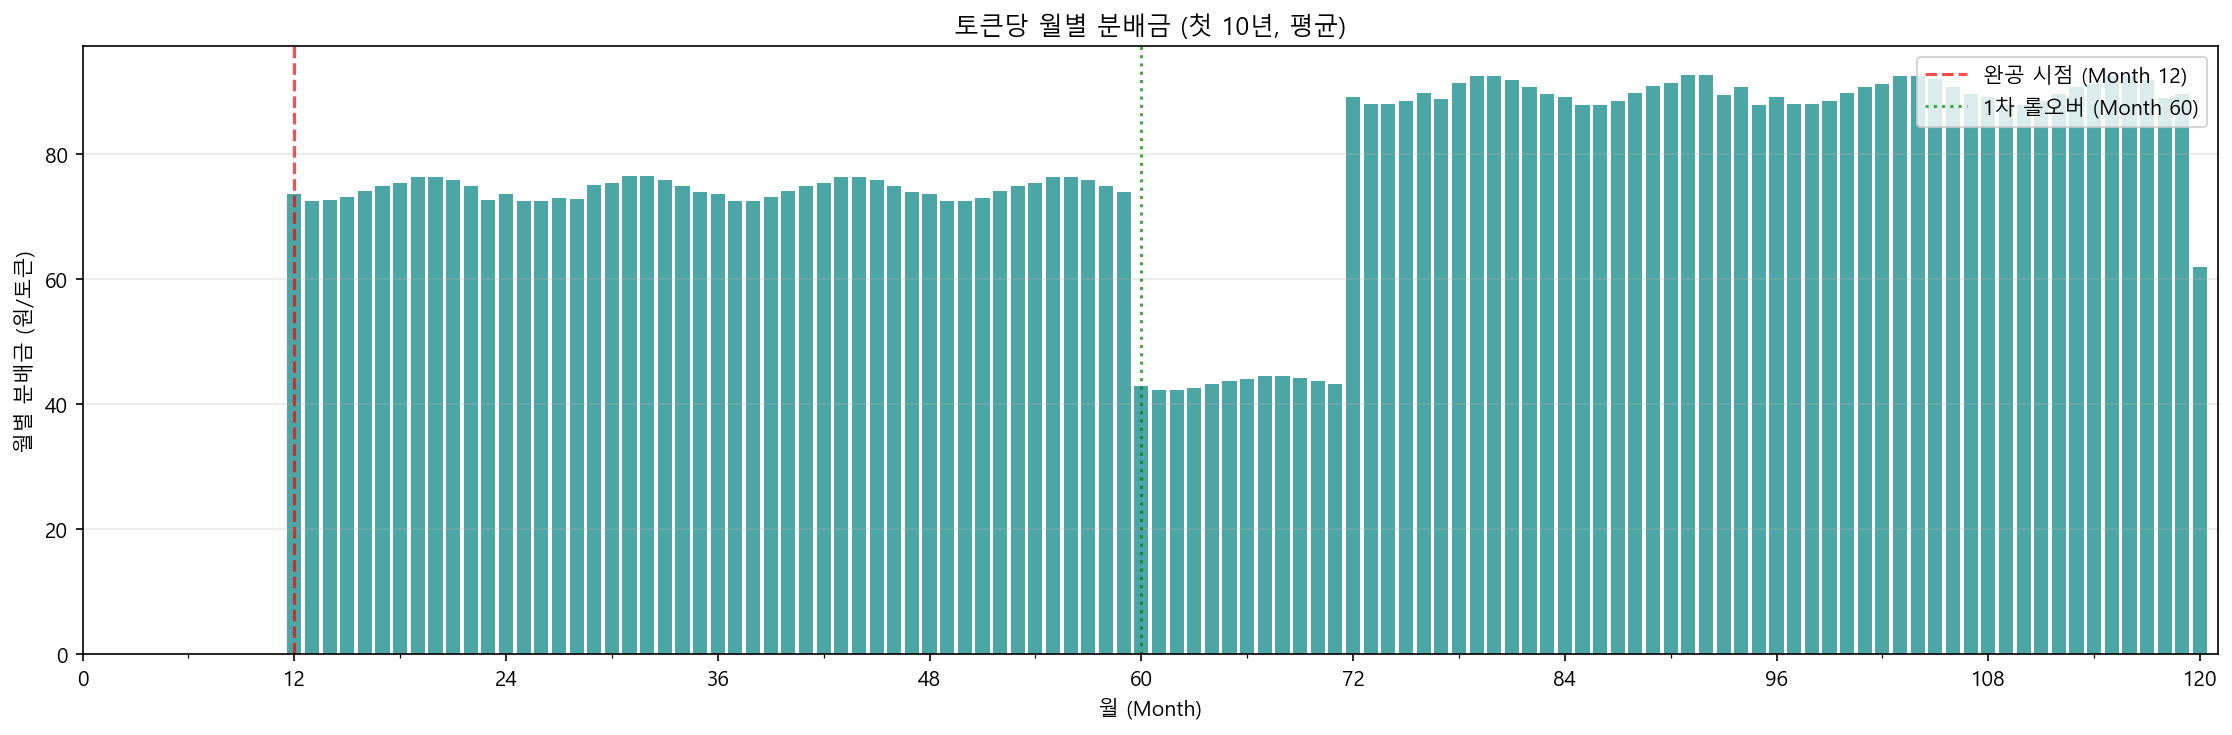
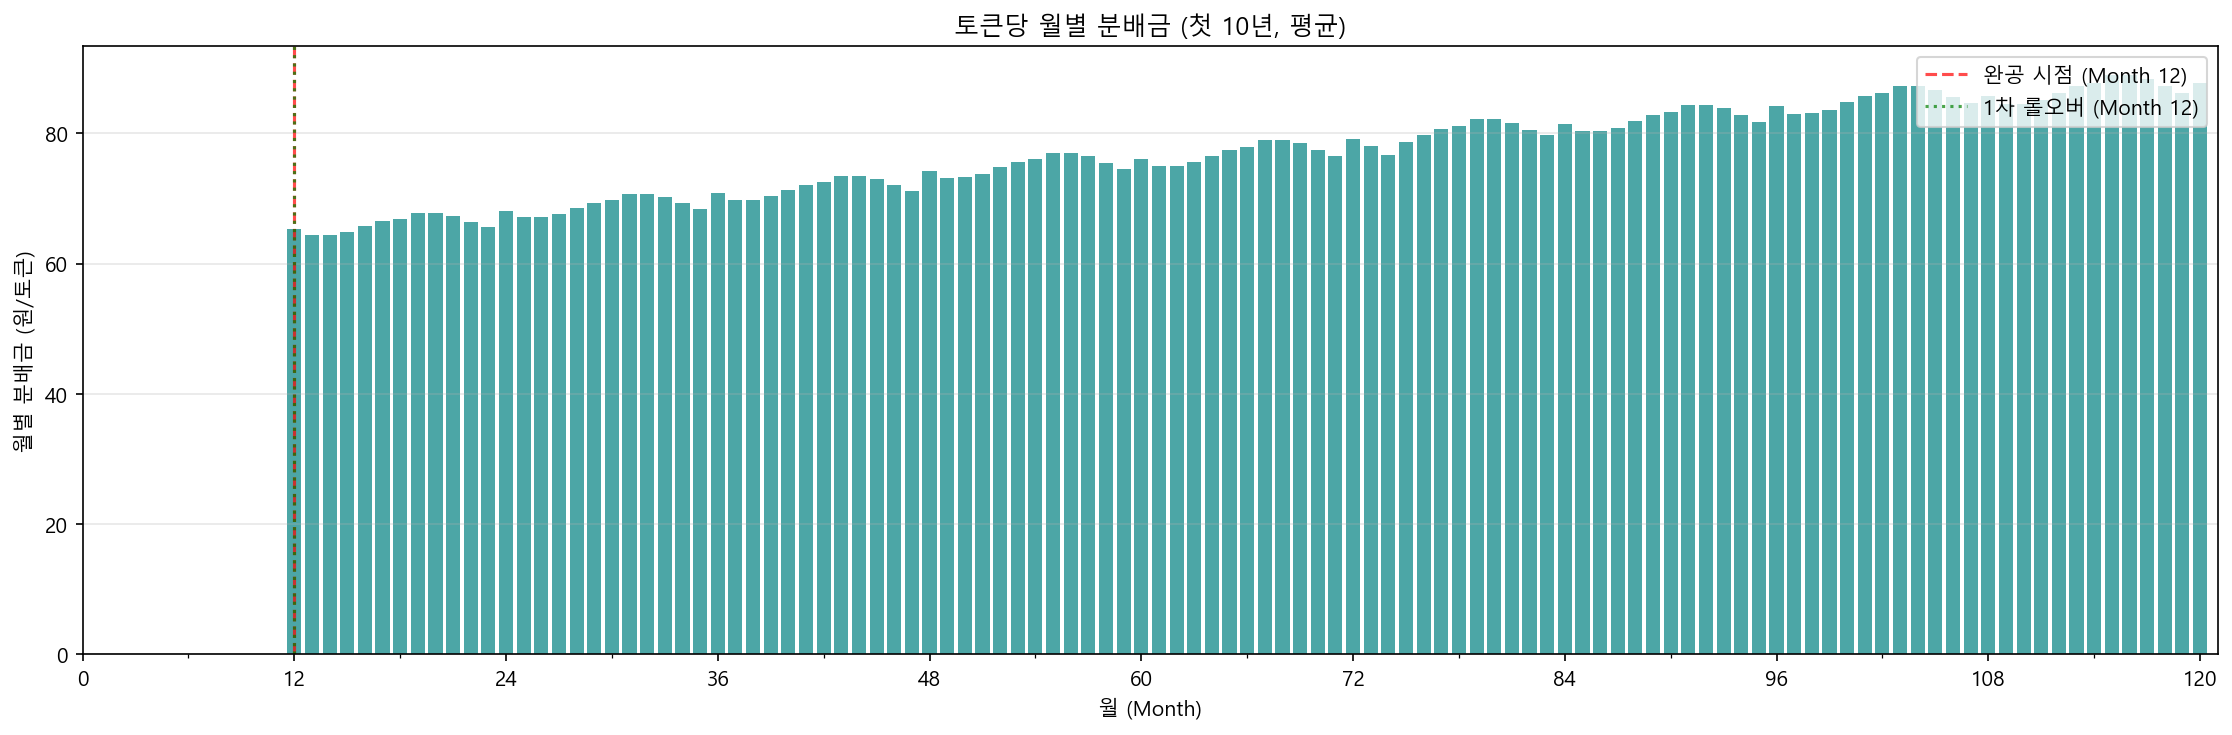
feat: 롤오버 주기 1년/1PF로 변경 및 merge_history 반환 수정
- T_ROLLOVER 60→12, ROLLOVER_PF_COUNT 5→1로 변경하여 안정적 NAV 경로 확보
- SolarPFDriver에서 run_policy 3값 반환(merge_history) 정상 처리
- .gitignore에 논문 파일 제외 추가
- 시뮬레이션 결과 이미지 업데이트

diff --git a/SolarPFModel.py b/SolarPFModel.py
@@ -19,7 +19,7 @@ T_CONSTRUCTION = 12                           # 1년
 T_OPERATION = 240                             # 20년
 T_SINGLE_PF = T_CONSTRUCTION + T_OPERATION    # 252개월
 T_SIMULATION = 480                            # 40년 (롤오버)
-T_ROLLOVER = 60                               # 롤오버 주기 (5년)
+T_ROLLOVER = 12                               # 롤오버 주기 (1년)
 
 # 토큰 병합 (Reverse Split)
 T_MERGE_BASELINE = 240                        # 병합 기준가 설정 시점 (20년, Month 240 롤오버 직후)
@@ -32,7 +32,7 @@ EQUITY_AMOUNT = 400_000_000                   # 자기자본 4억 (20%)
 SENIOR_DEBT = 400_000_000                     # 선순위 대출 4억 (20%)
 TOKEN_AMOUNT = 1_200_000_000                  # 토큰화 대상 12억 (60%)
 INITIAL_PF_COUNT = 5                          # 초기 운영 PF 수
-ROLLOVER_PF_COUNT = 5                         # 롤오버 시 편입 PF 수
+ROLLOVER_PF_COUNT = 1                         # 롤오버 시 편입 PF 수
 
 # 토큰 단위 (소액 투자자 접근성)
 TOKEN_UNIT_PRICE = 10_000                     # 토큰 1개당 가격 1만원

diff --git a/SolarPFDriver.py b/SolarPFDriver.py
@@ -68,7 +68,7 @@ def main():
     print(f"Running {trial_size} Monte Carlo simulations (T={T} months)...")
 
     for trial in range(trial_size):
-        _, history = policy.run_policy(seed=trial)
+        _, history, merge_history = policy.run_policy(seed=trial)
 
         all_nav.append([h['state'].NAV_t for h in history])
         all_pv.append([h['state'].PV_t for h in history])
@@ -76,7 +76,7 @@ def main():
         all_status.append([h['state'].status_t for h in history])
         all_token_count.append([h['state'].token_count_t for h in history])
         all_distribution.append([h['state'].monthly_distribution_t for h in history])
-        all_merge_history.append(list(model.merge_history))
+        all_merge_history.append(merge_history)
 
         if (trial + 1) % 10 == 0:
             print(f"  Trial {trial + 1}/{trial_size} done")
